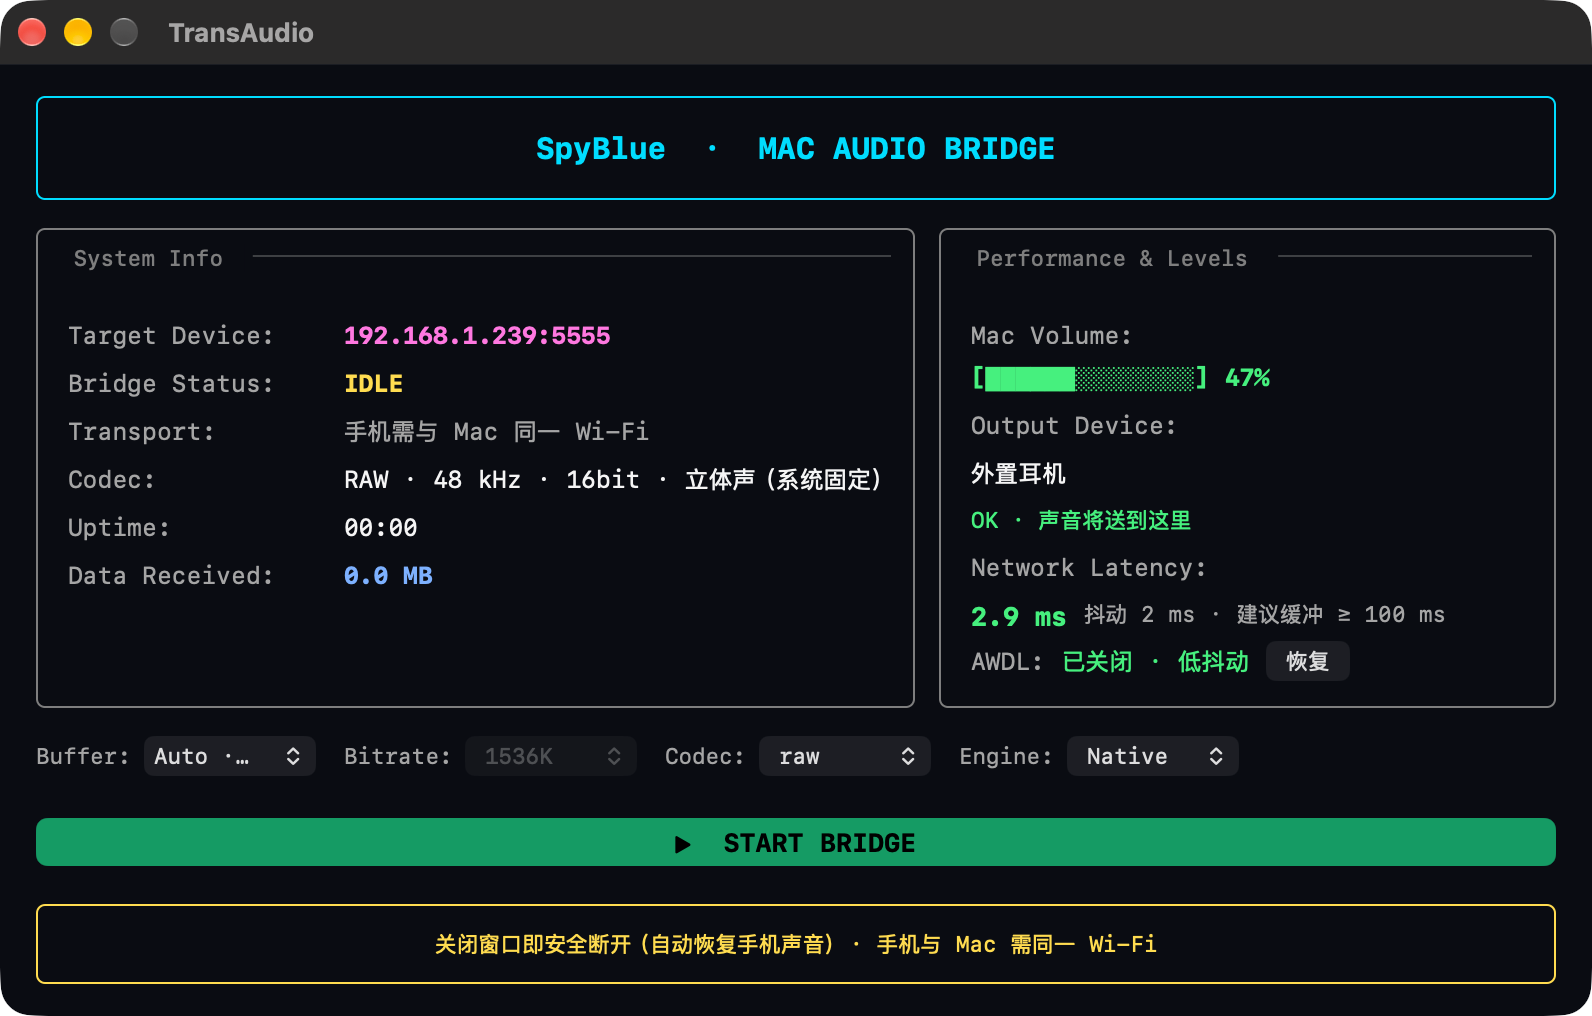
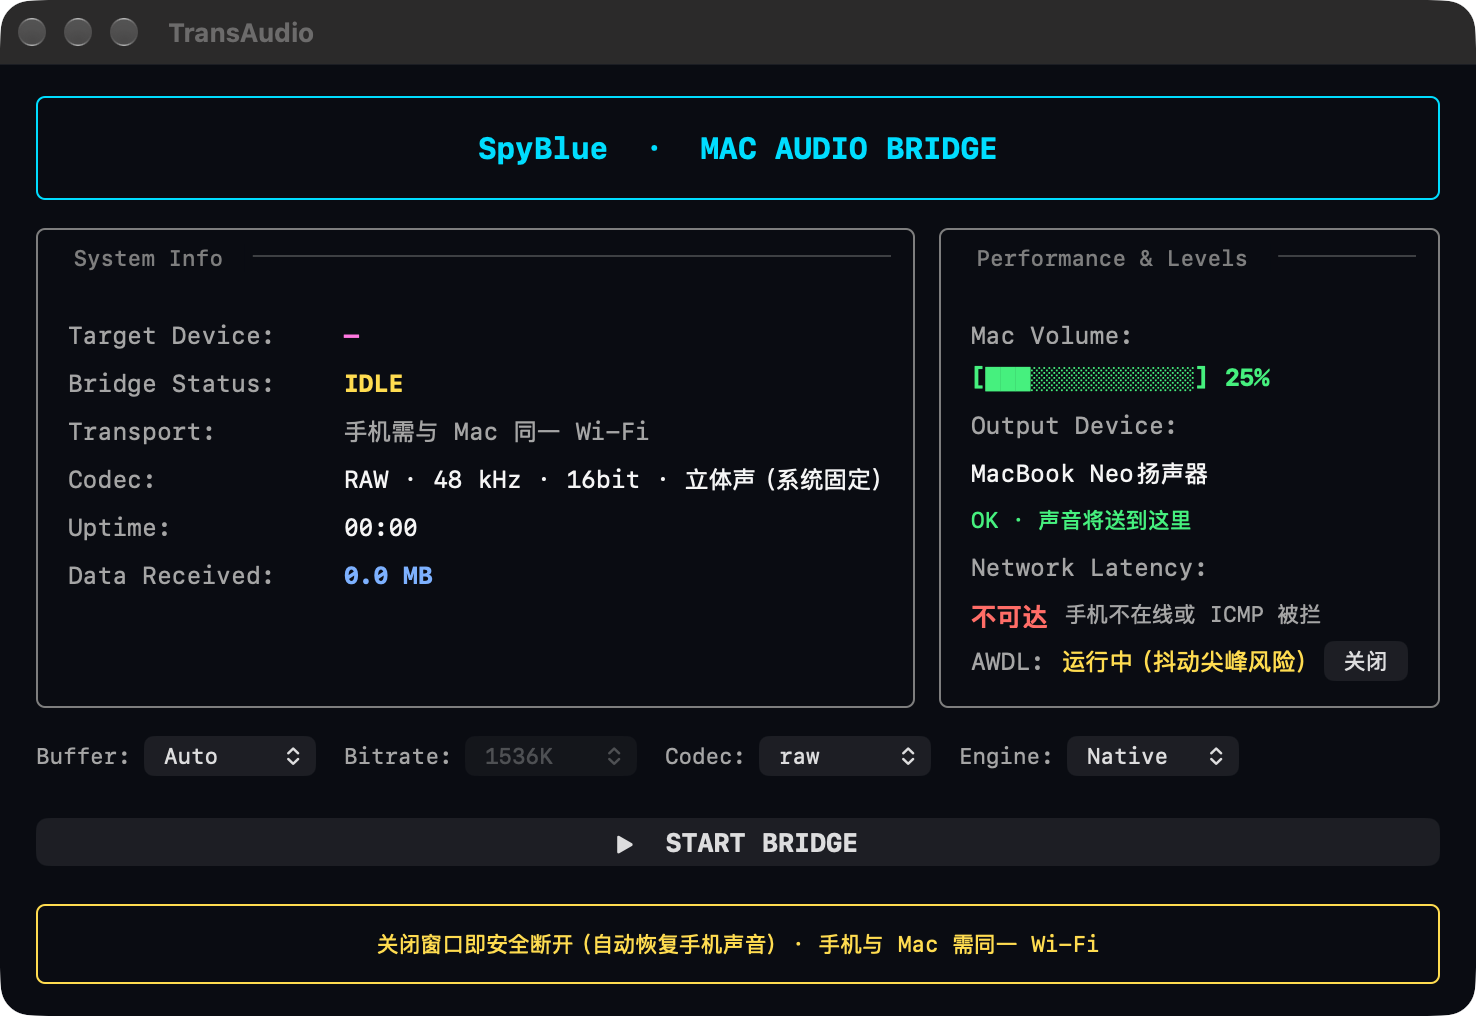
fix: Buffer 下拉收起时只显示 Auto，展开菜单仍显示实际目标值

diff --git a/scripts/Main.swift b/scripts/Main.swift
@@ -979,7 +979,9 @@ final class AppDelegate: NSObject, NSApplicationDelegate {
 
     private func updateAutoBufferDisplay(_ target: Int) {
         guard bufferPopup.titleOfSelectedItem?.hasPrefix("Auto") == true else { return }
+        // 菜单项保留完整说明，收起时只显示 Auto，避免窄下拉截断成「Auto ·…」
         bufferPopup.item(at: 0)?.title = "Auto · \(target) ms"
+        bufferPopup.title = "Auto"
     }
 
     private func failSession(_ message: String, session id: UInt64) {
@@ -1196,6 +1198,9 @@ final class AppDelegate: NSObject, NSApplicationDelegate {
         actionButton.bezelColor = NSColor(calibratedRed: 0.10, green: 0.55, blue: 0.32, alpha: 1)
         actionButton.isEnabled = true
         setSettingsEnabled(true)
+        // 会话结束后 Auto 档恢复简短显示，实际目标值仍在下次 Start 时写入
+        bufferPopup.item(at: 0)?.title = "Auto"
+        bufferPopup.title = "Auto"
     }
 }
 
